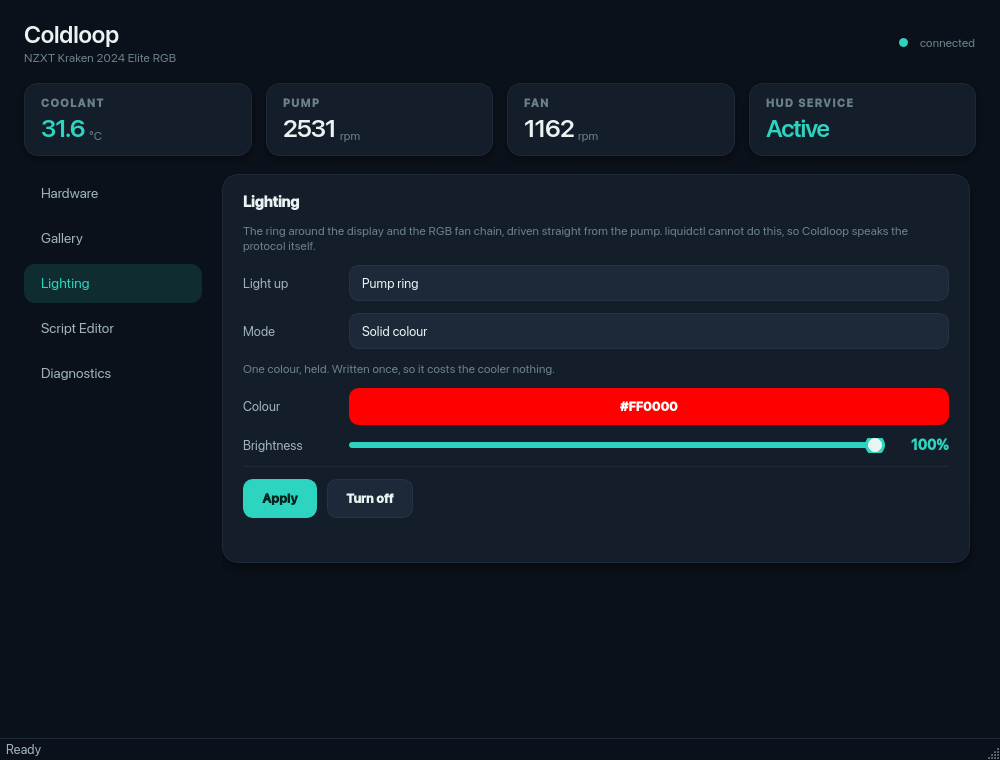
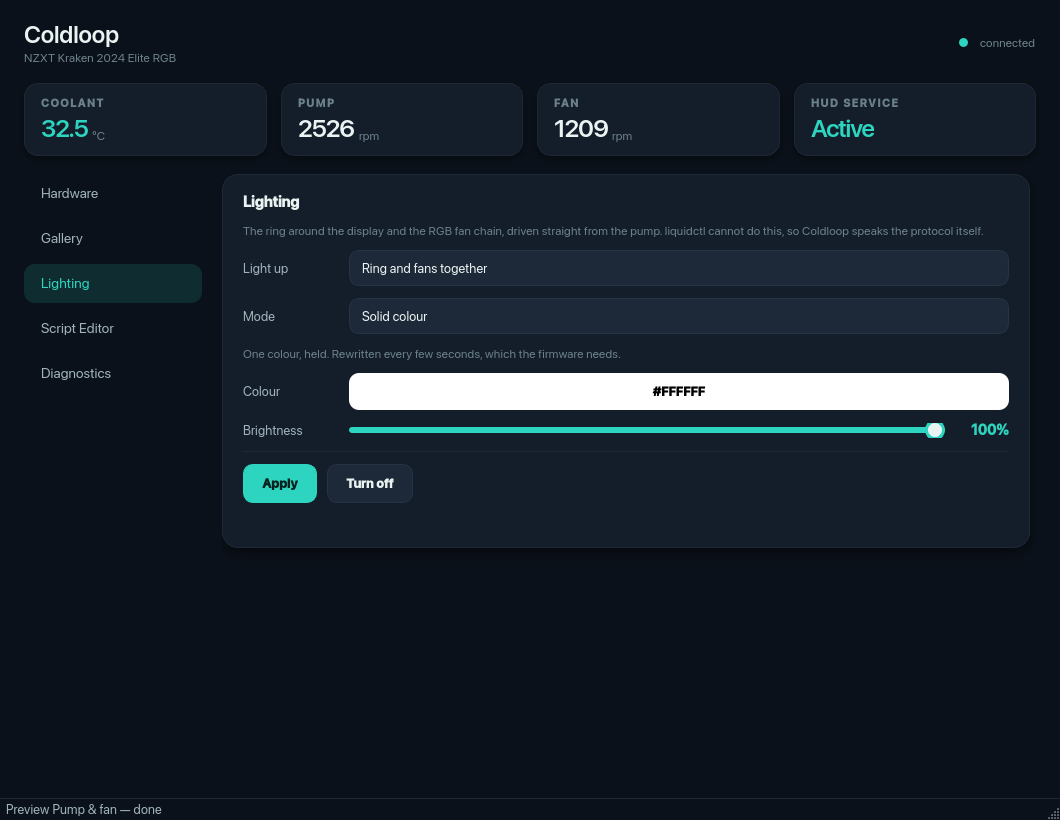
Add screenshots to the README
Five images, each placed with the section it explains rather than dumped in a
gallery: a montage of all eight built-in faces as the header, the Gallery tab
beside the description of the control panel, the face studio in "Building your
own face", the Lighting tab in "Lighting", and the Hardware tab next to "Fan
safety" -- that one shows the fan slider floored at 25%, which is the thing the
section is about.

The face montage masks each render to a circle with a bezel ring, because the
LCD is round and a square screenshot misrepresents what is actually on it.

The trend face is rendered against a seeded coolant history. Rendered cold it
shows its "GATHERING DATA" empty state, which is correct behaviour and a
useless illustration of a graph.

Fonts are resolved through fc-match rather than by hardcoded path, so the
montage cannot silently fall back to an unreadable bitmap font.

diff --git a/README.md b/README.md
@@ -3,6 +3,12 @@
 Linux control for the NZXT Kraken 2024 Elite RGB (CAM is Windows-only), built on
 [liquidctl](https://github.com/liquidctl/liquidctl).
 
+![Eight built-in HUD faces on the cooler's round LCD](docs/faces.png)
+
+Eight built-in faces, rendered by `kraken_hud.py` and pushed to the cooler's
+round 640x640 LCD. Each is drawn from three colours you pick, and you can build
+your own by dragging components onto the display.
+
 > **Supported hardware: one cooler.** Everything here was verified against an
 > **NZXT Kraken 2024 Elite RGB (USB `1e71:3012`)** on Bazzite. Coldloop refuses
 > to configure any other cooler rather than guess — its pump and fan curves are
@@ -64,6 +70,8 @@ lighting settings in `~/.config/coldloop/` are left alone.
 The controller is in the GNOME app grid and dock as **Coldloop**
 (`~/.local/share/applications/coldloop.desktop`, icon
 `~/.local/share/icons/hicolor/scalable/apps/coldloop.svg`).
+
+![The Gallery tab, with live previews of each face](docs/gallery-tab.png)
 
 Both processes serialise device access through a shared `flock` on
 `/dev/shm/kraken_liquidctl.lock`, and the HUD publishes its latest reading to
@@ -202,6 +210,8 @@ failure.
 
 ## Building your own face
 
+![The face studio: components on the left, the round display in the middle, per-component properties on the right](docs/face-studio.png)
+
 The Gallery tab's **Create a face** button opens a studio: drag arc gauges,
 bar meters, live readouts and text labels onto the round display, drag them to
 position, and set each one's metric, colour, size and weight individually.
@@ -260,6 +270,8 @@ background rather than against white. The default teal is returned verbatim
 rather than regenerated, since those values were hand-tuned.
 
 ## Lighting
+
+![The Lighting tab: channel, mode, colour and brightness](docs/lighting-tab.png)
 
 Coldloop's **Lighting** tab drives the cooler's own LEDs: the pump ring around
 the LCD, and the RGB header the radiator fans chain into. Pick what to light,
@@ -361,6 +373,8 @@ constant passes vacuously the moment somebody lowers that constant, which is
 exactly the change worth catching.
 
 ## Fan safety
+
+![The Hardware tab: pump and fan duty, with the fan slider floored at 25%](docs/hardware-tab.png)
 
 The fan channel's driver minimum is **0**, and `liquidctl set fan speed 0` is
 accepted silently with exit status 0 while stopping the radiator fans — it looks
